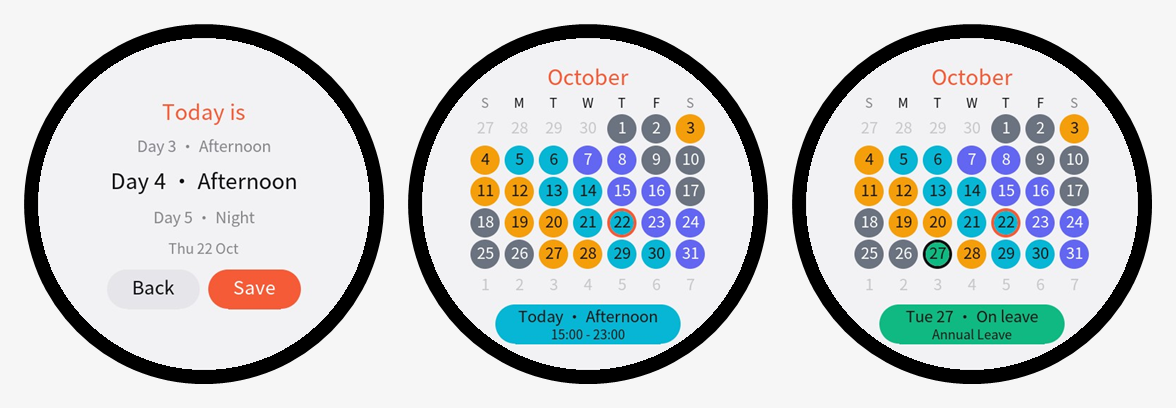
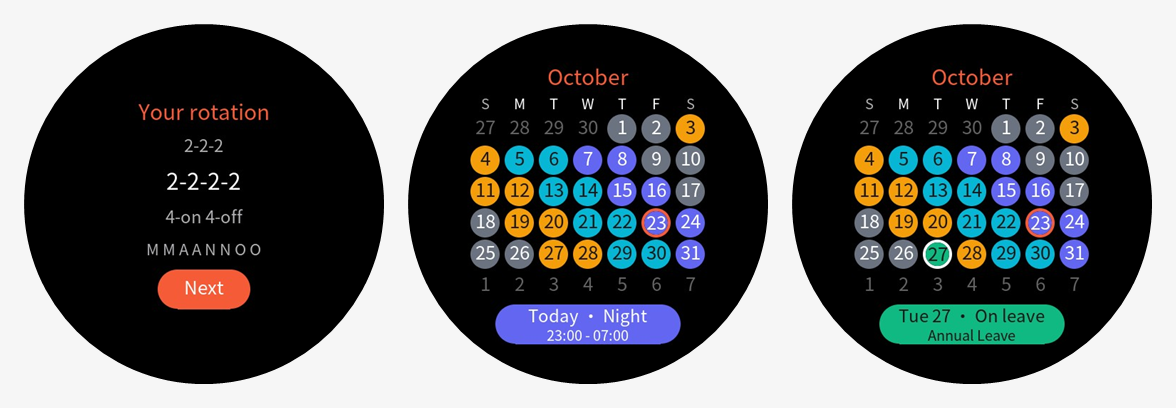
Watch app: dark theme, larger text and quicker month changes
- Black background on the calendar and the setup screen, with brighter greys.
- Bigger day numbers, weekday letters, pill text and setup lists.
- The month on screen is created once the setup has been read, with its
  colours already in place, instead of blank and then repainted day by day
  (which also logged a style error for every blank value).
- The page that slides away is refilled two rows at a time, so the crown and
  the next swipe don't wait on it.
- cellState reuses one result object instead of making 42 per month.

diff --git a/watch/entry/src/main/js/default/pages/index/index.js b/watch/entry/src/main/js/default/pages/index/index.js
@@ -1,4 +1,5 @@
 import router from '@system.router';
+import { BACKGROUND, TEXT } from '../../common/colors.js';
 import {
   addMonths, cellState, dateLabel, dayParts, describe, monthFrame, monthTitle, scheduleFor, today, weekdayHeader,
 } from '../../common/schedule.js';
@@ -8,18 +9,24 @@ const CELL_FIELDS = ['num', 'bg', 'fg', 'ring', 'ringWidth'];
 // The swiper reports a new page once its slide has finished. Refilling the page that slid away waits
 // this long more, so the slide's last frame is drawn first.
 const REFILL_DELAY_MS = 30;
+// That refill is done a couple of rows at a time, with a frame's gap between, so it never holds up the
+// crown or the next swipe for long. Every changed value on a day makes the watch lay its row out again.
+const ROWS_PER_STEP = 2;
+const STEP_MS = 20;
 // The setup made on the watch (see common/setup.js) and the schedule worked out from it. Kept out of
 // `data` so the watch doesn't track every day of the schedule for changes.
 let setup = null;
 let settings = null;
-// The swiper's three pages: the month each holds (as months from today's) and its grid frame.
+// The swiper's three pages: the month each holds (as months from today's) and its grid frame. While a
+// page is being refilled its offset is NaN, so a half-painted page never passes for a finished one.
 let pages = [];
 // The page on screen.
 let current = 1;
-// A page to refill once the slide has finished ({ page, offset }), and the timer that does it.
+// A page being refilled ({ page, offset, row }: `row` is the next row to paint), and the timer for its
+// next step.
 let pending = null;
 let pendingTimer = null;
-// Adds the months either side after the first frame (see onReady).
+// Adds the months either side after the first one is up (see useSetup).
 let readyTimer = null;
 
 export default {
@@ -29,7 +36,10 @@ export default {
     todayDay: 0,
     selectedDay: 0,
     weekdays: [],
-    // False until the months either side of the first one have been added (see onReady).
+    // False until the setup has been read. The month on screen is only created then, with its days
+    // already filled in, rather than created blank and then updated day by day.
+    loaded: false,
+    // False until the months either side of the first one have been added (see useSetup).
     ready: false,
     title0: '',
     title1: '',
@@ -42,8 +52,8 @@ export default {
     infoTitle: '',
     infoDetail: '',
     // The page's own colour, so the pill only appears with the setup.
-    infoBg: '#f2f2f4',
-    infoInk: '#111111',
+    infoBg: BACKGROUND,
+    infoInk: TEXT,
   },
   onInit() {
     const t = today();
@@ -55,6 +65,7 @@ export default {
     current = 1;
     pending = null;
     pendingTimer = null;
+    readyTimer = null;
     this.weekdays = weekdayHeader();
     for (let p = 0; p < 3; p++) {
       const weeks = [];
@@ -68,19 +79,9 @@ export default {
       }
       this['weeks' + p] = weeks;
     }
-    // The month is drawn once the setup has been read (reading it takes a moment), rather than drawn
-    // plain and then coloured in.
     const passed = this.saved ? parseSetup(this.saved) : null;
     if (passed) this.useSetup(passed);
     else loadSetup((saved) => this.useSetup(saved));
-  },
-  onReady() {
-    // Only the month on screen is drawn at first. The months either side are added once that's up,
-    // so the app opens as quickly as with one month.
-    readyTimer = setTimeout(() => {
-      readyTimer = null;
-      this.ready = true;
-    }, 50);
   },
   onShow() {
     this.crownFocus(true);
@@ -107,22 +108,40 @@ export default {
     }
     setup = saved;
     settings = schedule;
+    // All three months are filled in before any of their days exist on screen, so filling them updates
+    // nothing there. Only the month on screen is created at first; the months either side follow just
+    // after its first frame, so the app opens as quickly as with one month.
     for (let p = 0; p < 3; p++) this.fill(p, pages[p].offset);
     this.showInfo();
+    this.loaded = true;
+    readyTimer = setTimeout(() => {
+      readyTimer = null;
+      this.ready = true;
+    }, 50);
   },
   openSetup() {
     this.cancel();
     router.replace({ uri: 'pages/setup/setup' });
   },
-  // Puts the month `offset` months from today's on page p.
+  // Puts the month `offset` months from today's on page p, all at once.
   fill(p, offset) {
+    this.setMonth(p, offset);
+    this.paintRows(p, 0, 6);
+    pages[p].offset = offset;
+  },
+  // Gives page p the title and grid frame of the month `offset` months from today's. Its days are
+  // painted separately (paintRows).
+  setMonth(p, offset) {
     const now = dayParts(this.todayDay);
     const m = addMonths(now.year, now.month, offset);
-    const frame = monthFrame(m.year, m.month);
-    pages[p] = { offset, frame };
+    pages[p] = { offset: NaN, frame: monthFrame(m.year, m.month) };
     this['title' + p] = monthTitle(m.year, m.month, now.year);
+  },
+  // Paints rows `from` to `to` (not included) of page p.
+  paintRows(p, from, to) {
+    const frame = pages[p].frame;
     const weeks = this['weeks' + p];
-    for (let r = 0; r < 6; r++) {
+    for (let r = from; r < to; r++) {
       const days = weeks[r].days;
       for (let c = 0; c < 7; c++) this.paint(days[c], frame);
     }
@@ -151,8 +170,8 @@ export default {
   paged(e) {
     const index = e.index;
     if (index === current) return;
-    // A refill still waiting from the last slide is either this page, which must be right now, or
-    // the page about to be refilled again below.
+    // A refill still running from the last slide is either for this page, which must be finished now,
+    // or for the page about to be refilled again below.
     if (pending && pending.page === index) this.flush();
     else this.cancel();
     const step = index === (current + 1) % 3 ? 1 : -1;
@@ -162,13 +181,32 @@ export default {
     const page = (index + step + 3) % 3;
     const offset = pages[index].offset + step;
     if (pages[page].offset === offset) return;
-    pending = { page, offset };
-    pendingTimer = setTimeout(() => this.flush(), REFILL_DELAY_MS);
+    this.setMonth(page, offset);
+    pending = { page, offset, row: 0 };
+    pendingTimer = setTimeout(() => this.refillStep(), REFILL_DELAY_MS);
   },
+  // Paints the next rows of the page being refilled, and schedules the rest.
+  refillStep() {
+    pendingTimer = null;
+    const job = pending;
+    if (!job) return;
+    const to = Math.min(6, job.row + ROWS_PER_STEP);
+    this.paintRows(job.page, job.row, to);
+    job.row = to;
+    if (to < 6) {
+      pendingTimer = setTimeout(() => this.refillStep(), STEP_MS);
+    } else {
+      pending = null;
+      pages[job.page].offset = job.offset;
+    }
+  },
+  // Finishes the page being refilled at once.
   flush() {
     const job = pending;
     this.cancel();
-    if (job) this.fill(job.page, job.offset);
+    if (!job) return;
+    this.paintRows(job.page, job.row, 6);
+    pages[job.page].offset = job.offset;
   },
   cancel() {
     if (pendingTimer !== null) clearTimeout(pendingTimer);

diff --git a/watch/entry/src/main/js/default/common/schedule.js b/watch/entry/src/main/js/default/common/schedule.js
@@ -179,6 +179,10 @@ export function monthFrame(year, month) {
   return { start: first - ((weekdayOf(first) - WEEK_START + 7) % 7), first, last, prevLength };
 }
 
+// cellState's result. It's reused rather than made per day: the caller copies the values straight away,
+// and 42 fewer objects per month leaves the watch's garbage collector less to do while months slide by.
+const CELL = { num: '', bg: '', fg: '', ring: '', ringWidth: '0px' };
+
 // Runs 42 times per month change on a slow watch, so it uses integer maths only.
 // Every day of the rotation gets a circle in its shift's (or leave's) colour, days off included.
 // Dates from the months either side are plain grey numbers. Today gets an accent ring and a tapped
@@ -189,13 +193,12 @@ export function cellState(day, frame, settings, todayDay, selectedDay) {
   if (day < frame.first) date = frame.prevLength - (frame.first - day) + 1;
   else if (day > frame.last) date = day - frame.last;
   const weekday = weekdayOf(day);
-  const cell = {
-    num: NUMBERS[date],
-    bg: BACKGROUND,
-    fg: !inMonth ? OUTSIDE : weekday === 0 || weekday === 6 ? MUTED : TEXT,
-    ring: BACKGROUND,
-    ringWidth: '0px',
-  };
+  const cell = CELL;
+  cell.num = NUMBERS[date];
+  cell.bg = BACKGROUND;
+  cell.fg = !inMonth ? OUTSIDE : weekday === 0 || weekday === 6 ? MUTED : TEXT;
+  cell.ring = BACKGROUND;
+  cell.ringWidth = '0px';
   if (settings && inMonth) {
     const look = lookOf(day, settings);
     cell.bg = look.color;

diff --git a/watch/entry/src/main/js/default/pages/index/index.css b/watch/entry/src/main/js/default/pages/index/index.css
@@ -4,19 +4,19 @@
   flex-direction: column;
   justify-content: center;
   align-items: center;
-  background-color: #f2f2f4;
+  background-color: #000000;
 }
 
 .months {
   width: 466px;
   height: 334px;
-  background-color: #f2f2f4;
+  background-color: #000000;
 }
 
 .month {
   width: 466px;
   height: 334px;
-  background-color: #f2f2f4;
+  background-color: #000000;
 }
 
 .body {
@@ -45,7 +45,7 @@
 .weekday {
   width: 48px;
   height: 26px;
-  font-size: 18px;
+  font-size: 20px;
   letter-spacing: 0px;
   text-align: center;
 }
@@ -62,7 +62,7 @@
   width: 42px;
   height: 42px;
   border-radius: 21px;
-  font-size: 22px;
+  font-size: 26px;
   letter-spacing: 0px;
   text-align: center;
 }
@@ -80,8 +80,8 @@
 
 .info-title {
   width: 240px;
-  height: 28px;
-  font-size: 22px;
+  height: 30px;
+  font-size: 24px;
   letter-spacing: 0px;
   text-align: center;
   text-overflow: ellipsis;
@@ -89,8 +89,8 @@
 
 .info-detail {
   width: 240px;
-  height: 22px;
-  font-size: 18px;
+  height: 24px;
+  font-size: 20px;
   letter-spacing: 0px;
   text-align: center;
 }

diff --git a/watch/entry/src/main/js/default/common/colors.js b/watch/entry/src/main/js/default/common/colors.js
@@ -1,11 +1,12 @@
-// Light theme matching the watch's built-in Calendar app. The page .css files use the same values.
-export const BACKGROUND = '#f2f2f4';
-export const TEXT = '#111111';
-export const MUTED = '#86868b';
+// Dark theme: black like the watch's own screens, which also leaves most of the OLED screen's pixels off.
+// The page .css files use the same values.
+export const BACKGROUND = '#000000';
+export const TEXT = '#ffffff';
+export const MUTED = '#aeaeb2';
 export const ACCENT = '#f55b37';
 export const ON_ACCENT = '#ffffff';
 // Ring around the date you tapped: green stays distinct from the shift colours and today's orange,
 // including with colour-blindness.
-export const SELECTED = '#16a34a';
+export const SELECTED = '#22c55e';
 // Dates from the months either side of the one shown.
-export const OUTSIDE = '#c7c7cc';
+export const OUTSIDE = '#636366';

diff --git a/watch/entry/src/main/js/default/pages/setup/setup.css b/watch/entry/src/main/js/default/pages/setup/setup.css
@@ -4,7 +4,7 @@
   flex-direction: column;
   justify-content: center;
   align-items: center;
-  background-color: #f2f2f4;
+  background-color: #000000;
 }
 
 .title {
@@ -19,21 +19,21 @@
 .picker {
   width: 340px;
   height: 150px;
-  font-size: 22px;
-  color: #86868b;
-  selected-font-size: 30px;
-  selected-color: #111111;
-  background-color: #f2f2f4;
+  font-size: 24px;
+  color: #aeaeb2;
+  selected-font-size: 32px;
+  selected-color: #ffffff;
+  background-color: #000000;
 }
 
 .hint {
   width: 300px;
   height: 30px;
   margin-top: 4px;
-  font-size: 20px;
+  font-size: 22px;
   letter-spacing: 0px;
   text-align: center;
-  color: #86868b;
+  color: #aeaeb2;
 }
 
 .buttons {
@@ -55,8 +55,8 @@
 
 .back {
   margin-right: 12px;
-  background-color: #e5e5ea;
-  color: #111111;
+  background-color: #2c2c2e;
+  color: #ffffff;
 }
 
 .next {

diff --git a/watch/README.md b/watch/README.md
@@ -1,6 +1,6 @@
 # ShiftCalendar for Huawei Watch GT
 
-A shift calendar for Huawei's GT-series watches. It's written for the Watch GT 7 (466 × 466 round screen) using Huawei's "lite wearable" JavaScript framework. It shows one month at a time, styled like the watch's own Calendar app, with each working day in its shift's colour. You set your rotation on the watch the first time it opens, and shifts are worked out on the watch from it, so it needs no phone connection.
+A shift calendar for Huawei's GT-series watches. It's written for the Watch GT 7 (466 × 466 round screen) using Huawei's "lite wearable" JavaScript framework. It shows one month at a time on a black background, laid out like the watch's own Calendar app, with each working day in its shift's colour. You set your rotation on the watch the first time it opens, and shifts are worked out on the watch from it, so it needs no phone connection.
 
 <p align="center">
   <img src="preview.png" width="640" alt="Watch screens: the setup, this month, and a day booked as annual leave" />
@@ -50,7 +50,7 @@ entry/src/main/config.json                bundle name, device type, pages
 entry/src/main/js/default/
   app.js
   common/config.js                         shifts, rotations and leave (edit this)
-  common/colors.js                         the light theme's colours
+  common/colors.js                         the dark theme's colours
   common/schedule.js                       rotation maths and the month grid
   common/setup.js                          saves the setup made on the watch
   pages/index/                             the month calendar
@@ -101,7 +101,8 @@ The lite wearable framework is much smaller than a browser:
 - GT watches refuse an app (`Installation failed: 40`) unless it has a small icon too: keep `icon_small.png` next to `icon.png` in `resources/base/media`. The JS also has to sit in `js/default`.
 - The watch shows the icon as it is, without masking it, so the PNGs are round with transparent corners.
 - Keep the page cheap to update. The months sit in a three-page vertical `swiper`, so the swipe and the crown are animated by the watch itself. The page that slides away is refilled with the next month while it's off screen, and only the values that change are written. Each day is a single `text` element.
-- The months either side of the first one are built just after the first frame, so the app opens as quickly as it did with one month.
+- Every changed value on a `text` makes the framework lay out its parent row again, and nothing is batched. So the refill is done two rows at a time with a short gap between, which keeps the crown and the next swipe from waiting on it.
+- The month on screen is only created once the setup has been read, with its colours already in place. Created with blank style values, every day logs `parse percent value failed` for each of them and then has to be updated anyway. The months either side are built just after the first frame.
 - Install from the Lite version of DevEco Assistant that Huawei links on its developer forum.
 - If the Previewer stays black, look for `[JS Error]` lines in DevEco Studio's `previewer.log` (**Help → Show Log in Explorer**).
 - The crown reaches a JS page only through a component that asks for it with `rotation({ focus: true })`, here the month `swiper`. If your watch doesn't pass the crown to it, swiping still changes the month.
